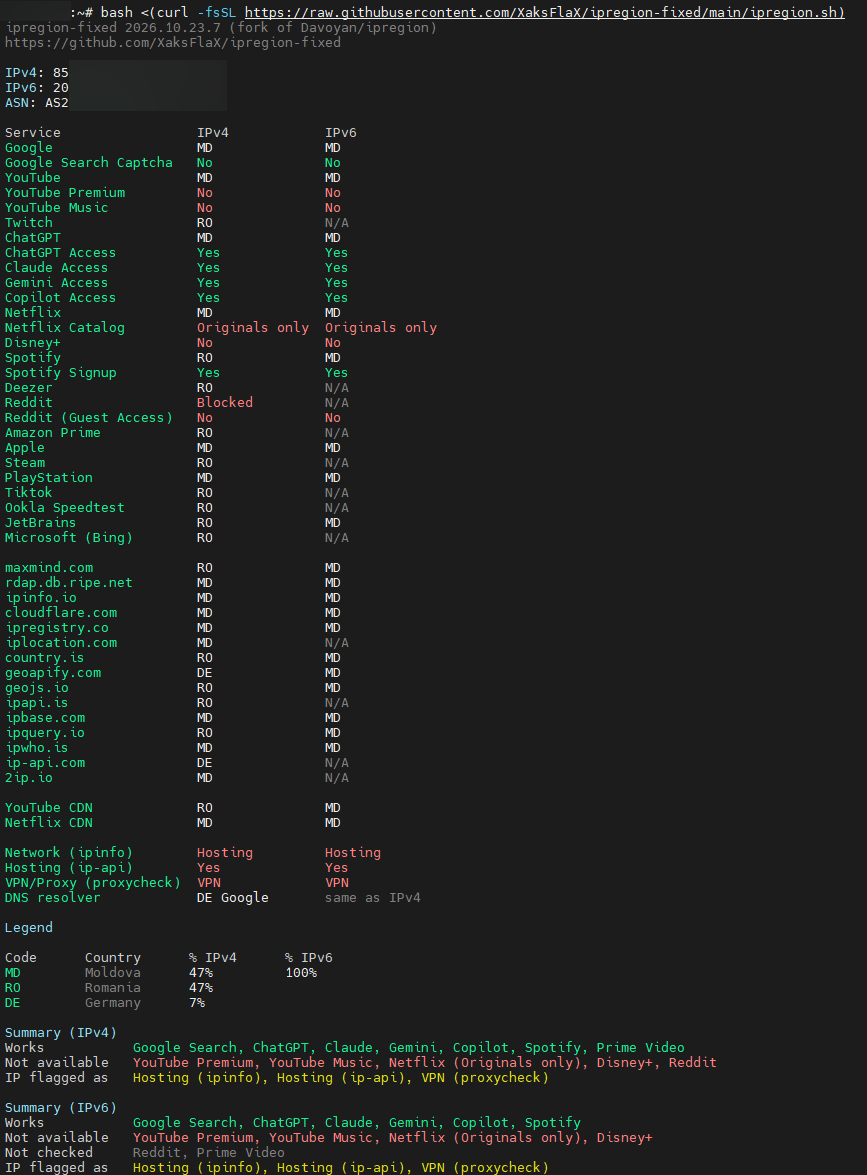
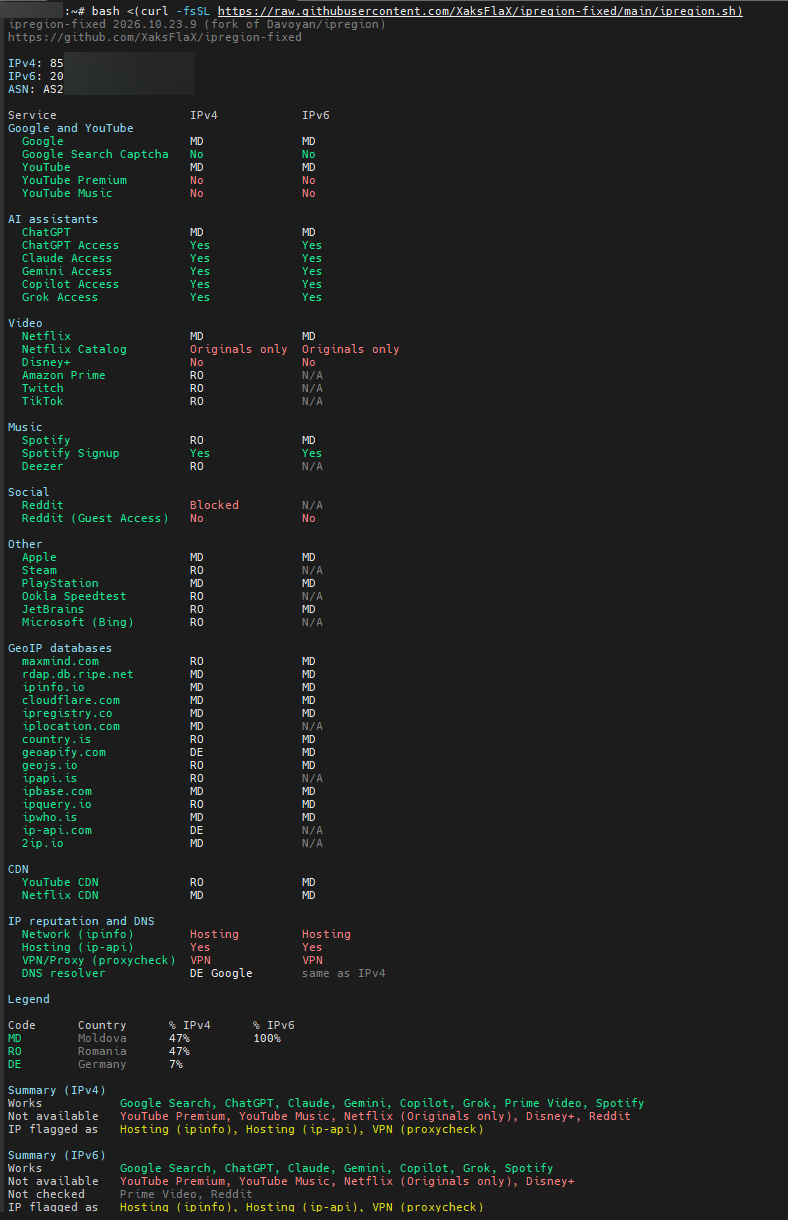
README: output example of 2026.10.23.9 (table in blocks)
Screenshot of the blocked table (IP addresses, ASN and host name hidden;
the prompt line at the bottom is cropped, metadata stripped).

diff --git a/README.ru.md b/README.ru.md
@@ -26,14 +26,13 @@ bash ipregion.sh
 
 ### Пример вывода
 
-VPS в Молдове, версия 2026.10.23.7 (IP-адреса, ASN и имя сервера скрыты). С версии 2026.10.23.9 те же строки
-разбиты на блоки с заголовками: Google and YouTube, AI assistants, Video, Music, Social, Other, GeoIP databases, CDN,
-IP reputation and DNS:
+VPS в Молдове, версия 2026.10.23.9 (IP-адреса, ASN и имя сервера скрыты):
 
 ![Пример вывода ipregion-fixed](docs/example-output.png)
 
 Как читать:
 
+- **Блоки** — Google and YouTube, AI assistants, Video, Music, Social, Other, затем GeoIP-базы, CDN и репутация IP.
 - **Колонки** — одна и та же проверка по IPv4 и по IPv6. `N/A` в колонке IPv6 обычно значит, что у сервиса нет IPv6.
 - **Коды стран** — где, по мнению сервиса, находится IP. Здесь мнения разошлись: примерно половина видит Молдову (`MD`), половина — Румынию (`RO`).
 - **YouTube Premium / Music `No`** — Google видит Молдову, а там они не предоставляются.

diff --git a/README.md b/README.md
@@ -22,14 +22,13 @@ bash ipregion.sh
 
 ### Output example
 
-A VPS in Moldova, version 2026.10.23.7 (IP addresses, ASN and host name are hidden). Since 2026.10.23.9 the same rows
-are split into titled blocks: Google and YouTube, AI assistants, Video, Music, Social, Other, GeoIP databases, CDN,
-IP reputation and DNS:
+A VPS in Moldova, version 2026.10.23.9 (IP addresses, ASN and host name are hidden):
 
 ![Example output of ipregion-fixed](docs/example-output.png)
 
 How to read it:
 
+- **Blocks** — Google and YouTube, AI assistants, Video, Music, Social, Other, then GeoIP databases, CDN and IP reputation.
 - **Columns** — the same check over IPv4 and IPv6. `N/A` in the IPv6 column usually means the service has no IPv6.
 - **Country codes** — where the service thinks the IP is. Here services disagree: about half see Moldova (`MD`), half Romania (`RO`).
 - **YouTube Premium / Music `No`** — Google sees Moldova, where they are not offered.
